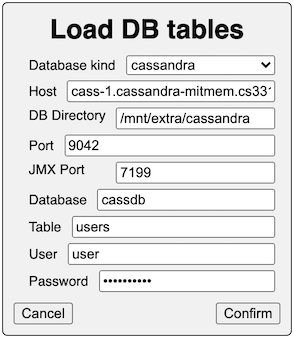
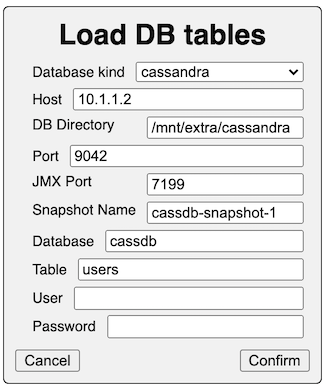
updated with Snapshot information

Changed region(s): [[0.0, 0.0, 1.0, 1.0], [0.1531, 0.0592, 0.8265, 0.1183]]

diff --git a/docs/userManual.md b/docs/userManual.md
@@ -26,7 +26,7 @@ one row for an airline flight.  Columns in this dataset include: the date of the
 the origin and destination cities, the origin and destination states,
 the origin airport code, the distance flown, the departure and arrival delay.
 
-Updated on 2020 Sep 02.
+Updated on 2020 Sep 03.
 
 # Contents
   * 1 [Basic concepts](#1-basic-concepts)
@@ -657,18 +657,17 @@ containing two values, "true" and "false".
 
 Hillview can read data from [Cassandra distributed databases](https://cassandra.apache.org/).
 For this purpose a Hillview worker should be deployed on each Cassandra node.
-Moreover, Hillview must have read access to Cassandra's SSTables.
-Hillview assumes that no writes are in progress while reading the
-data from storage and the data is already compacted. Moreover, we recommend that Cassandra uses `LeveledCompactionStrategy` with maximum SSTable size is 160 MB (recommended by Cassandra developer). In the other hand, having only 1 gigantic SSTable is not recommended. Small and multiple SSTables are great for Hillview's parallelism because the worker will read all those files in parallel. More about data compaction, you can change the configuration by runing this cqlsh query on each node:
+Moreover, Hillview must have read access to Cassandra's SSTables. 
+To avoid reading inconsistent data, Hillview will read from a snapshot.
+More about Cassandra's snapshot can be found [here]
+(https://docs.datastax.com/en/dse/5.1/dse-admin/datastax_enterprise/tools/nodetool/toolsSnapShot.html).
 
-`USE <keyspace_name>;`<br>
-`ALTER TABLE <table_name> WITH compaction = {'class' : 'LeveledCompactionStrategy', 'sstable_size_in_mb' : 160 };`
-
-Then you need to initiate the compaction by using the nodetool:
-
-`bin/nodetool compact <keyspace_name>`
-
-That may take a few minutes up to hours depends on how big your data. You can check the compaction progress by reading the log file (` md_txn_compaction_*.log`) in the `data/<keyspace_name>`.  
+We recommend that the snapshoted data is already compacted by 
+`LeveledCompactionStrategy` with maximum SSTable size is 160 MB 
+(recommended by Cassandra developer). Having small and multiple SSTables 
+are great for Hillview's parallelism because the worker will 
+read all those files in parallel. More about Leveled Compaction Strategy can be found [here]
+(https://cassandra.apache.org/doc/latest/operating/compaction/lcs.html#lcs)
 
 The following menu allows the user to specify the data to load.
 
@@ -691,6 +690,8 @@ The following menu allows the user to specify the data to load.
 * database: The database/keyspace to load data from.
 
 * table: The table to load data from.
+
+* snapshot name: The target snapshot to load.
 
 * user: The name of the user connecting to the database.
 
